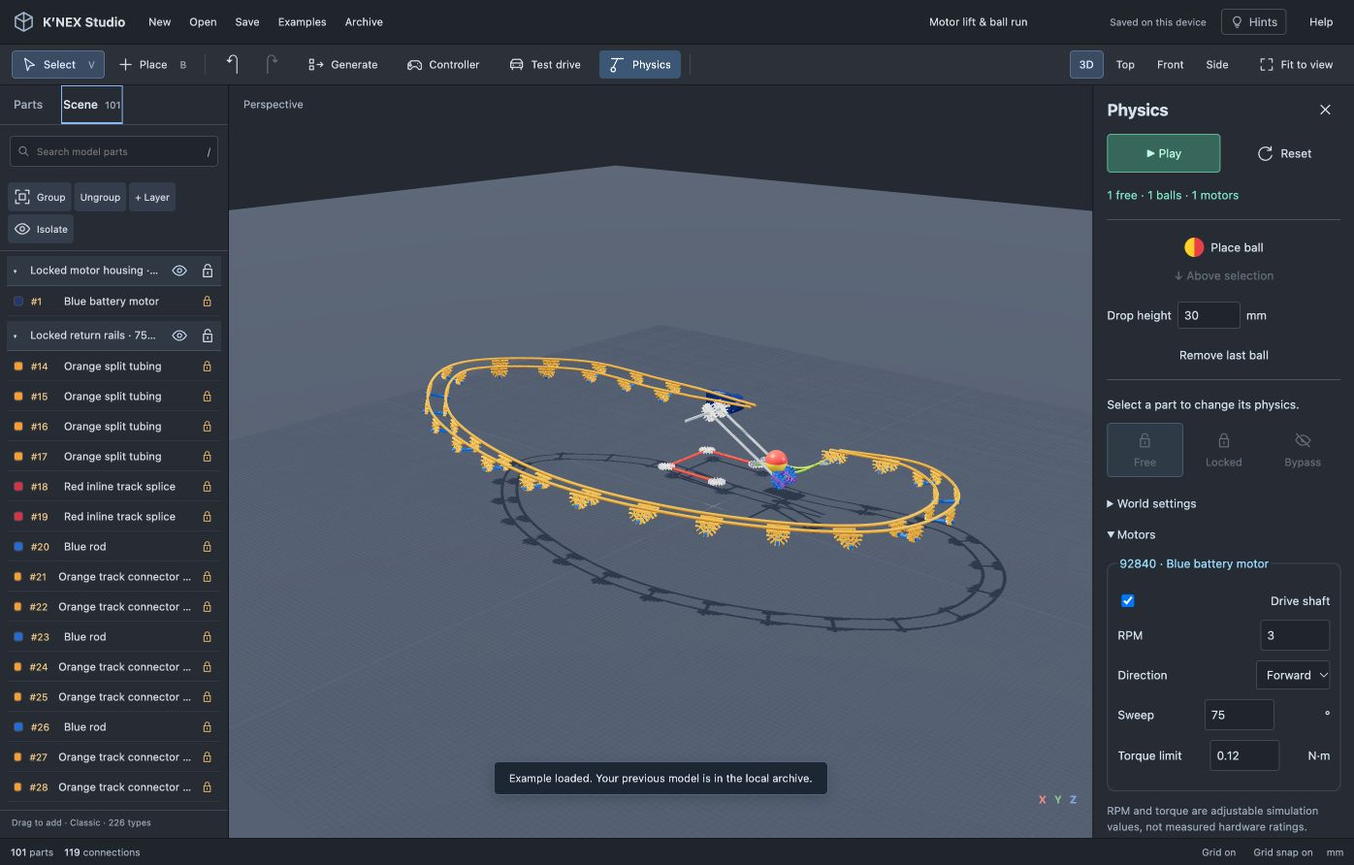
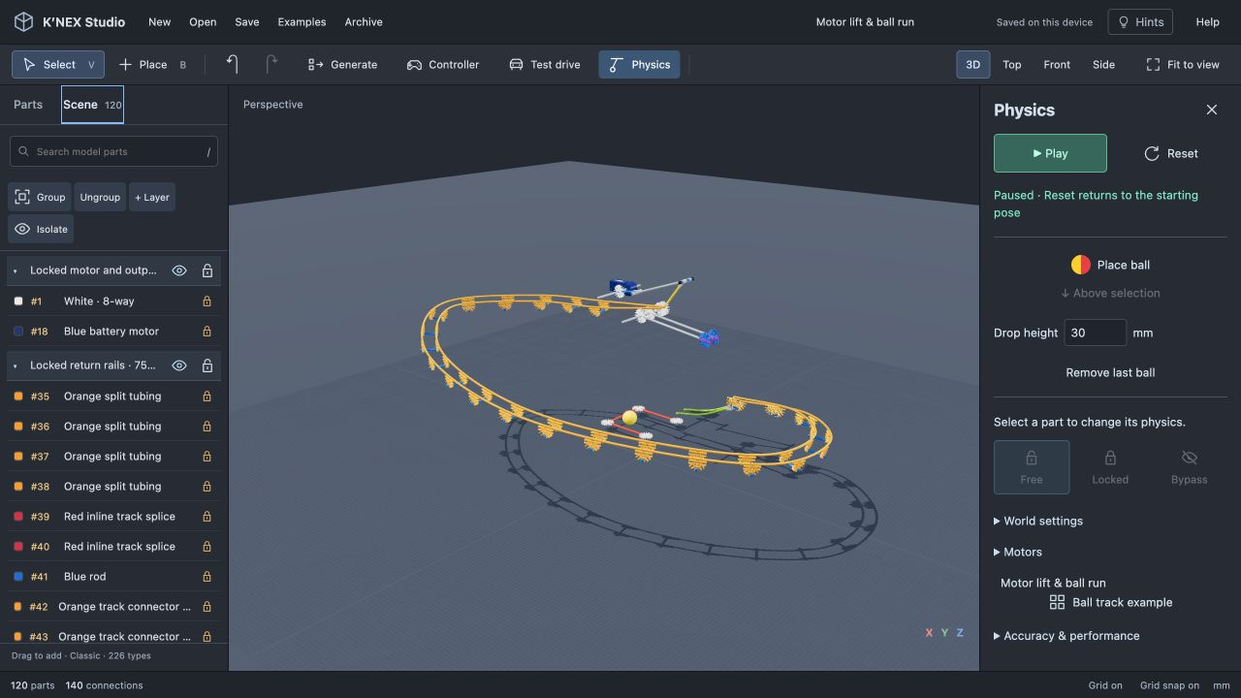
Replace reversing lift with a continuously driven physical crank linkage

diff --git a/dist/unified-physics-ui.js b/dist/unified-physics-ui.js
@@ -10,7 +10,7 @@ import {definition,V} from './engine.js';
 import {icon} from './icons.js';
 export function physicsWorkspace({scene,renderer,getCamera,getControls,partsGroup,getModel,getSelection,commit,redraw,stopOthers,onActive,loadExample}){
  const panel=document.createElement('section');panel.id='unified-panel';panel.hidden=true;document.querySelector('.inspector').append(panel);
- panel.innerHTML=`<header><h2>Physics</h2><button id="world-close" title="Back to building">${icon('close')}</button></header><div class="world-actions"><button id="world-play">▶ Play</button><button id="world-reset">${icon('rotate')} Reset</button></div><div id="world-status" role="status"></div><div class="world-ball-tools"><button id="world-ball" aria-pressed="false"><span class="ball-dot"></span> Place ball</button><button id="world-above" title="Place a ball directly above the selected part">↓ Above selection</button><label>Drop height <input id="world-height" type="number" min="0" max="1000" step="10" value="30"> mm</label><button id="world-remove-ball">Remove last ball</button></div><div id="world-selected">Select a part to change its physics.</div><div class="world-modes"><button data-world-mode="free" title="Affected by gravity and collisions">${icon('unlock')} Free</button><button data-world-mode="locked" title="Fixed in space; still collides and supports other parts">${icon('ground')} Locked</button><button data-world-mode="off" title="Hold this rigid assembly and exclude it from collisions and joints">${icon('eyeOff')} Bypass</button></div><details><summary>World settings</summary><label>Gravity <input id="world-gravity" type="range" min="0" max="20" step=".1"><output id="world-gravity-value"></output></label><label>Grip <input id="world-friction" type="range" min="0" max="1" step=".02"></label><label>Bounce <input id="world-bounce" type="range" min="0" max=".8" step=".02"></label><label><input id="world-rigid" type="checkbox"> Rigid assemblies <small>Freeze hinges; the whole assembly can still move.</small></label><label><input id="world-contacts" type="checkbox"> Build-to-build collisions <small>Off allows separate build assemblies to clip through each other. Balls and floor still collide.</small></label></details><details id="world-motor-settings"><summary>Motors</summary><div id="world-motors"></div><small>RPM and torque are adjustable simulation values, not measured hardware ratings. Sweep adds automatic reversing; 0° runs continuously.</small></details><button id="world-machine">Motor lift & ball run</button><button id="world-example">${icon('examples')} Ball track example</button><details><summary>Accuracy & performance</summary><p>One solver for gravity, hinges, rolling balls and tipping. Collision shapes omit small ribs, gear teeth and some cavities. Material values are estimates. Bypass applies to the connected rigid section. Enclosed 92840, 22722 and 92401 motors can drive their shafts here with an estimated torque limit. Gear teeth, belts and chains do not yet transmit physical drive in this solver. The separate motor previews and driving playground remain prescribed-motion tools.</p><p>Reset or leave Physics to restore the build. Ball start positions and settings are saved; simulated poses are temporary. Click a surface to place a ball vertically above it, or use Above selection. Drag free parts while running to pull and release.</p><output id="world-perf"></output></details>`;
+ panel.innerHTML=`<header><h2>Physics</h2><button id="world-close" title="Back to building">${icon('close')}</button></header><div class="world-actions"><button id="world-play">▶ Play</button><button id="world-reset">${icon('rotate')} Reset</button></div><div id="world-status" role="status"></div><div class="world-ball-tools"><button id="world-ball" aria-pressed="false"><span class="ball-dot"></span> Place ball</button><button id="world-above" title="Place a ball directly above the selected part">↓ Above selection</button><label>Drop height <input id="world-height" type="number" min="0" max="1000" step="10" value="30"> mm</label><button id="world-remove-ball">Remove last ball</button></div><div id="world-selected">Select a part to change its physics.</div><div class="world-modes"><button data-world-mode="free" title="Affected by gravity and collisions">${icon('unlock')} Free</button><button data-world-mode="locked" title="Fixed in space; still collides and supports other parts">${icon('ground')} Locked</button><button data-world-mode="off" title="Hold this rigid assembly and exclude it from collisions and joints">${icon('eyeOff')} Bypass</button></div><details><summary>World settings</summary><label>Gravity <input id="world-gravity" type="range" min="0" max="20" step=".1"><output id="world-gravity-value"></output></label><label>Grip <input id="world-friction" type="range" min="0" max="1" step=".02"></label><label>Bounce <input id="world-bounce" type="range" min="0" max=".8" step=".02"></label><label><input id="world-rigid" type="checkbox"> Rigid assemblies <small>Freeze hinges; the whole assembly can still move.</small></label><label><input id="world-contacts" type="checkbox"> Build-to-build collisions <small>Off allows separate build assemblies to clip through each other. Balls and floor still collide.</small></label></details><details id="world-motor-settings"><summary>Motors</summary><div id="world-motors"></div><small>RPM and torque are adjustable simulation values, not measured hardware ratings. Motors rotate continuously; use a crank linkage for back-and-forth motion.</small></details><button id="world-machine">Motor lift & ball run</button><button id="world-example">${icon('examples')} Ball track example</button><details><summary>Accuracy & performance</summary><p>One solver for gravity, hinges, rolling balls and tipping. Collision shapes omit small ribs, gear teeth and some cavities. Material values are estimates. Bypass applies to the connected rigid section. Enclosed 92840, 22722 and 92401 motors can drive their shafts here with an estimated torque limit. Gear teeth, belts and chains do not yet transmit physical drive in this solver. The separate motor previews and driving playground remain prescribed-motion tools.</p><p>Reset or leave Physics to restore the build. Ball start positions and settings are saved; simulated poses are temporary. Click a surface to place a ball vertically above it, or use Above selection. Drag free parts while running to pull and release.</p><output id="world-perf"></output></details>`;
  const $=id=>panel.querySelector(id),canvas=renderer.domElement,ray=new T.Raycaster(),pointer=new T.Vector2();let active=false,running=false,s=null,root=null,meshes=new Map(),ballMeshes=[],selected=null,placing=false,target=null,down=null,grabPlane=null,stepCost=0;
  const ballGeometry=[new T.SphereGeometry(23,24,12,0,Math.PI*2,0,Math.PI/2),new T.SphereGeometry(23,24,12,0,Math.PI*2,Math.PI/2,Math.PI/2)],ballMaterials=[new T.MeshStandardMaterial({color:'#e83f46',roughness:.35}),new T.MeshStandardMaterial({color:'#ffd029',roughness:.35})];
  const overlay=new T.Group();scene.add(overlay);overlay.visible=false;const ghost=new T.Mesh(new T.SphereGeometry(23,20,12),new T.MeshBasicMaterial({color:'#78ffca',wireframe:true,transparent:true,opacity:.7})),line=new T.Line(new T.BufferGeometry(),new T.LineDashedMaterial({color:'#78ffca',dashSize:6,gapSize:4}));overlay.add(ghost,line);ghost.visible=line.visible=false;const outline=new T.Box3Helper(new T.Box3(),'#ff4fea');overlay.add(outline);outline.visible=false;
@@ -25,8 +25,8 @@ export function physicsWorkspace({scene,renderer,getCamera,getControls,partsGrou
  function setConfig(fn){commit(m=>{const p=physicsSettings(m.physics);fn(p,m);m.physics=p;});rebuild();}
  function settings(){const p=physicsSettings(getModel().physics);for(const key of ['gravity','friction','bounce'])$('#world-'+key).value=p[key];$('#world-gravity-value').textContent=p.gravity.toFixed(1)+' m/s²';$('#world-contacts').checked=p.contacts;$('#world-rigid').checked=p.rigid;motorSettings();}
  function motorSettings(){const m=getModel(),p=physicsSettings(m.physics),root=$('#world-motors');root.replaceChildren();const motors=m.parts.filter(p=>['m-blue','m-green','m-two-speed'].includes(p.type));if(!motors.length){root.textContent='Add an enclosed motor and a drive shaft, or open the motor lift example.';return;}
- for(const motor of motors){const config=p.motors?.find(c=>c.id===motor.id),row=document.createElement('fieldset');row.className='world-motor';const legend=document.createElement('legend');legend.textContent=definition(motor).partNumber+' · '+definition(motor).name;row.append(legend);const controls=document.createElement('div');controls.innerHTML=`<label><input data-motor-enabled type="checkbox" ${config?'checked':''}> Drive shaft</label><label>RPM <input data-motor-rpm type="number" min=".1" max="240" step=".1" value="${config?.rpm??10}"></label><label>Direction <select data-motor-direction><option value="1">Forward</option><option value="-1">Reverse</option></select></label><label>Sweep <input data-motor-sweep type="number" min="0" max="360" step="5" value="${config?.sweep??0}"> °</label><label>Torque limit <input data-motor-torque type="number" min=".001" max="2" step=".01" value="${config?.torque??.12}"> N·m</label>`;row.append(controls);root.append(row);row.querySelector('[data-motor-direction]').value=config?.direction??1;
- controls.onchange=()=>{const enabled=row.querySelector('[data-motor-enabled]').checked,read=key=>Number(row.querySelector('[data-motor-'+key+']').value),next={id:motor.id,rpm:read('rpm'),direction:read('direction'),sweep:read('sweep'),torque:read('torque')};try{physicsSettings({...p,motors:enabled?[next]:[]});setConfig(c=>{c.motors=(c.motors||[]).filter(x=>x.id!==motor.id);if(enabled)c.motors.push(next);});motorSettings();}catch(e){message(e.message);}};
+ for(const motor of motors){const config=p.motors?.find(c=>c.id===motor.id),row=document.createElement('fieldset');row.className='world-motor';const legend=document.createElement('legend');legend.textContent=definition(motor).partNumber+' · '+definition(motor).name;row.append(legend);const controls=document.createElement('div');controls.innerHTML=`<label><input data-motor-enabled type="checkbox" ${config?'checked':''}> Drive shaft</label><label>RPM <input data-motor-rpm type="number" min=".1" max="240" step=".1" value="${config?.rpm??10}"></label><label>Direction <select data-motor-direction><option value="1">Forward</option><option value="-1">Reverse</option></select></label><label>Torque limit <input data-motor-torque type="number" min=".001" max="2" step=".01" value="${config?.torque??.12}"> N·m</label>`;row.append(controls);root.append(row);row.querySelector('[data-motor-direction]').value=config?.direction??1;
+ controls.onchange=()=>{const enabled=row.querySelector('[data-motor-enabled]').checked,read=key=>Number(row.querySelector('[data-motor-'+key+']').value),next={id:motor.id,rpm:read('rpm'),direction:read('direction'),sweep:0,torque:read('torque')};try{physicsSettings({...p,motors:enabled?[next]:[]});setConfig(c=>{c.motors=(c.motors||[]).filter(x=>x.id!==motor.id);if(enabled)c.motors.push(next);});motorSettings();}catch(e){message(e.message);}};
  }}
  function open(){if(active)return;stopOthers();active=true;selected=[...getSelection()][0]||null;panel.hidden=false;partsGroup.visible=false;overlay.visible=true;document.body.classList.add('physics-workspace');onActive(true);settings();rebuild();}
  function close(){if(!active)return;grabPlane=null;down=null;active=false;running=false;placing=false;getControls().enabled=true;destroy();panel.hidden=true;overlay.visible=false;partsGroup.visible=true;document.body.classList.remove('physics-workspace');onActive(false);redraw();}

diff --git a/dist/ball-machine.js b/dist/ball-machine.js
@@ -1,25 +1,40 @@
-import {part,emptyModel,add,solve,targets,V,Q,SOCKET} from './engine.js';
+import {part,emptyModel,add,solve,targets,V,Q,SOCKET,BY_ID,ports} from './engine.js';
 import {rigidComponent} from './motion.js';
 import {buildPath} from './path-builder.js';
 import {buildFrame} from './frame-builder.js';
 import {fitBetween} from './inbetween.js';
 import {makeLayer,makeGroup} from './editor-state.js';
 export function liftMechanism(){
- const m=emptyModel('Motorized tipping lift'),motor=part('m-blue',[0,220,-65]);motor.grounded=true;m.parts.push(motor);
+ const m=emptyModel('Motorized tipping lift'),bearing=part('c-white',[0,220,-65]);bearing.grounded=true;m.parts.push(bearing);
  const attach=(type,host,mode,options={},key)=>add(m,solve(m,type,targets(m,type,mode).find(t=>t.partId===host.id&&(!key||t.key===key)),mode,options));
- const shaft=attach('r-gray',motor,'through',{offset:-65}),tips=[];
+ const shaft=attach('r-gray',bearing,'through',{offset:-65}),tips=[];
  for(const z of [-18.75,18.75]){
   const key=attach('k-tan',shaft,'through',{offset:z-6.35,roll:0}),hub=attach('c-white',key,'keyed');
   const rail=attach('r-gray',hub,'end',{},'slot0');
   const tip=attach('c-blue',rail,'end',{portIndex:3},'end1');tips.push(tip);
  }
  const ends=tips.map((tip,i)=>attach('c-purple',tip,'interlock',{roll:i?90:0}));attach('r-green',ends[0],'end',{},'slot2');
- const rotor=rigidComponent(m,shaft.id),q=Q().setFromAxisAngle(V([0,0,1]),-Math.PI/6),origin=V([0,220,0]);for(const p of m.parts)if(rotor.has(p.id)){p.pos=V(p.pos).sub(origin).applyQuaternion(q).add(origin).toArray();p.quat=q.clone().multiply(Q(p.quat)).toArray();}
- makeLayer(m,[motor.id],'Locked motor housing');makeGroup(m,[...rotor],'Tipping lift');m.physics={gravity:9.81,rigid:false,balls:[{pos:[163,145,0]}],motors:[{id:motor.id,rpm:3,direction:1,sweep:75,torque:.12}],bounce:0,friction:.24,contacts:true};return m;
+ const rotor=rigidComponent(m,shaft.id),q=Q().setFromAxisAngle(V([0,0,1]),0),origin=V([0,220,0]);for(const p of m.parts)if(rotor.has(p.id)){p.pos=V(p.pos).sub(origin).applyQuaternion(q).add(origin).toArray();p.quat=q.clone().multiply(Q(p.quat)).toArray();}
+ // A stock-part four-bar: blue crank, gray connecting rod and yellow rocker.
+ // Only the crank is motor-driven. The output reverses through its linkage.
+ const z=-140,length=type=>BY_ID[type].length+2*SOCKET;
+ const rockerKey=attach('k-tan',shaft,'through',{offset:-86.35,roll:60}),rockerHub=attach('c-white',rockerKey,'keyed');
+ const rockerRod=attach('r-yellow',rockerHub,'end',{},'slot0'),rockerTip=attach('c-gray',rockerRod,'end',{},'end1');
+ const B=V(rockerTip.pos),O=V([-210,220,z]),r=length('r-blue'),l=length('r-gray'),delta=B.clone().sub(O);delta.z=0;const d=delta.length(),u=delta.clone().normalize(),along=(r*r-l*l+d*d)/(2*d),h=Math.sqrt(r*r-along*along);
+ const A=O.clone().addScaledVector(u,along).addScaledVector(V([-u.y,u.x,0]),-h),angle=Math.atan2(A.y-O.y,A.x-O.x)*180/Math.PI;
+ const motor=part('m-blue',[-210,220,z-45]);motor.grounded=true;m.parts.push(motor);
+ const drive=attach('r-gray',motor,'through',{offset:-45}),crankKey=attach('k-tan',drive,'through',{offset:-6.35,roll:angle}),crankHub=attach('c-white',crankKey,'keyed'),crankRod=attach('r-blue',crankHub,'end',{},'slot0'),crankTip=attach('c-gray',crankRod,'end',{},'end1');
+ // Parallel planes leave room for the actual connector and tan-key stack.
+ const ca=V(crankTip.pos),cb=V(rockerTip.pos);ca.z=-110;cb.z=-110;const dir=cb.clone().sub(ca).normalize(),orient=Q().setFromUnitVectors(V([1,0,0]),dir);
+ const linkA=part('c-gray',ca.toArray(),orient.toArray()),linkB=part('c-gray',cb.toArray(),Q().setFromAxisAngle(V([0,0,1]),Math.PI).multiply(orient).toArray());m.parts.push(linkA,linkB);attach('r-gray',linkA,'end',{},'slot0');
+ const pivot=(host,loose)=>{const pin=attach('r-blue',host,'through',{offset:(host.pos[2]-loose.pos[2])/2});attach('k-tan',host,'keyed');const axis=V([1,0,0]).applyQuaternion(Q(pin.quat)),offset=V(loose.pos).sub(V(pin.pos)).dot(axis);m.links.push({a:pin.id,ap:'shaft',b:loose.id,bp:'hole',mode:'through',offset});for(const end of ['end0','end1'])attach('k-cap',pin,'end',{},end);};
+ pivot(crankTip,linkA);pivot(rockerTip,linkB);
+ makeLayer(m,[motor.id,bearing.id],'Locked motor and output bearing');makeGroup(m,[...rigidComponent(m,shaft.id)],'Tipping lift and rocker');makeGroup(m,[...rigidComponent(m,drive.id)],'Continuous crank');makeGroup(m,[...rigidComponent(m,linkA.id)],'Connecting rod');
+ m.physics={gravity:9.81,rigid:false,balls:[{pos:[120,245,0]}],motors:[{id:motor.id,rpm:10,direction:-1,sweep:0,torque:.12}],bounce:0,friction:.24,contacts:true};return m;
 }
 
-export function ballMachine(){const m=liftMechanism();m.name='Motor lift & ball run';
-const path=buildPath({kind:'track',trackType:'track-orange',crossRod:'r-blue',entryRod:'r-white',bank:-15,bankEnds:true,spacing:120,points:[[100,250,0],[-150,248,0],[-420,244,0],[-620,238,170],[-420,230,400],[0,214,500],[350,195,400],[550,180,220],[550,166,0],[400,151,-150],[210,140,-150]]}).model;
+export function ballMachine(){const m=liftMechanism();for(const p of m.parts)p.pos[1]+=200;m.physics.balls[0].pos[1]+=200;m.name='Motor lift & ball run';
+const path=buildPath({kind:'track',trackType:'track-orange',crossRod:'r-blue',entryRod:'r-white',bank:-15,bankEnds:true,spacing:120,points:[[60,450,0],[-150,420,0],[-420,390,0],[-620,370,170],[-420,340,400],[0,300,500],[350,270,400],[550,240,220],[550,220,0],[400,200,-150],[210,185,-150]]}).model;
 // Leave the receiving tube tips overhanging their next cross-tie so the lift
  // can pass underneath. These rails are locked fixtures, not unsupported beams.
 const intakeIds=new Set(path.parts.filter(p=>['c-track-orange','r-blue'].includes(p.type)&&p.pos[0]>-100&&p.pos[0]<120&&p.pos[1]>200&&Math.abs(p.pos[2])<45).map(p=>p.id));path.parts=path.parts.filter(p=>!intakeIds.has(p.id));path.links=path.links.filter(l=>!intakeIds.has(l.a)&&!intakeIds.has(l.b));
@@ -28,10 +43,10 @@ for(const p of path.parts)p.grounded=true;m.parts.push(...path.parts);m.links.pu
  // 190 mm flexi rods across a small gap. There is no invented tubing/flexi joint.
  const flexIds=[];
  for(const z of [-19.4,19.4]){
-  const start=V([195,113,z-150]),end=V([17,67,z-150]),axis=end.clone().sub(start).normalize();
+  const start=V([195,158,z-150]),end=V([17,95,z-150]),axis=end.clone().sub(start).normalize();
   const a=part('c-gray',start.clone().addScaledVector(axis,-SOCKET).toArray(),Q().setFromUnitVectors(V([1,0,0]),axis).toArray());
-  const b=part('c-gray',end.clone().addScaledVector(axis,SOCKET).toArray(),Q().setFromUnitVectors(V([1,0,0]),axis.clone().negate()).toArray());
-  m.parts.push(a,b);const fitted=fitBetween(m,{a:a.id,ap:'slot0',b:b.id,bp:'slot0',type:'f-green190',bow:180});m.parts=fitted.model.parts;m.links=fitted.model.links;flexIds.push(a.id,b.id,fitted.part.id);
+  const b=part('c-gray',end.clone().addScaledVector(axis,SOCKET).toArray(),Q().setFromUnitVectors(V([1,0,0]),axis.clone().negate()).multiply(Q().setFromAxisAngle(V([1,0,0]),Math.PI/2)).toArray());
+  m.parts.push(a,b);const fitted=fitBetween(m,{a:a.id,ap:'slot0',b:b.id,bp:'slot0',type:'f-green190',bow:180});m.parts=fitted.model.parts.filter(p=>p.id!==b.id);m.links=fitted.model.links.filter(l=>l.a!==b.id&&l.b!==b.id);flexIds.push(a.id,fitted.part.id);
  }
  for(const p of m.parts)if(flexIds.includes(p.id))p.grounded=true;makeLayer(m,flexIds,'Locked flexi run-out');
  const catchFrame=buildFrame({kind:'grid',plane:'xz',counts:[1,1,1],rod:'r-red',braced:false}).model,opening=catchFrame.parts.find(p=>p.type==='r-red'&&p.pos[0]>149);

diff --git a/dist/unified-physics.js b/dist/unified-physics.js
@@ -9,7 +9,7 @@ export function createPhysics(model,settings=model.physics){
  const config=physicsSettings(settings),copy=parseModel(exportModel(model));
  // Freeze joints only for this preview. The saved mechanical connections stay intact.
  const graph=config.rigid?{...copy,links:copy.links.map(l=>['through','end-bearing','hinge','ball'].includes(l.mode)?{...l,mode:'end'}:l)}:copy;
- const partById=new Map(copy.parts.map(p=>[p.id,p]));const s=hingeSystem(graph,null,{unified:true});s.model=copy;s.config=config;s.balls=[];s.damping=.1;s.world.gravity.set(0,-config.gravity,0);s.world.allowSleep=true;s.world.solver.iterations=20;s.world.broadphase=new BoundsBroadphase(s.world);s.world.broadphase.useBoundingBoxes=true;
+ const partById=new Map(copy.parts.map(p=>[p.id,p]));const s=hingeSystem(graph,null,{unified:true});s.model=copy;s.config=config;s.balls=[];s.damping=.1;s.world.gravity.set(0,-config.gravity,0);s.world.allowSleep=true;s.world.solver.iterations=s.planarAxis&&s.joints.length>s.groups.filter(g=>!g.fixed).length?400:20;s.world.broadphase=new BoundsBroadphase(s.world);s.world.broadphase.useBoundingBoxes=true;
  const mat=new C.Material('physics');s.world.addContactMaterial(new C.ContactMaterial(mat,mat,{friction:config.friction,restitution:config.bounce,contactEquationStiffness:1e8,contactEquationRelaxation:4}));
  s.staticChunks=[];s.shapeCount=0;for(const g of s.groups){const b=g.body,ignored=g.parts.some(p=>p.physicsOff),inertia=b.inertia.clone();while(b.shapes.length)b.removeShape(b.shapes[0]);b.material=mat;b.collisionFilterGroup=2;b.collisionFilterMask=ignored?0:config.contacts?7:5;b.allowSleep=!s.joints.some(j=>j.a===g||j.b===g);b.sleepSpeedLimit=.015;b.sleepTimeLimit=1;
   if(!ignored)for(const local of g.local){const p=partById.get(local.id);for(const proxy of collisionShapes(p)){const position=V(proxy.pos).multiplyScalar(.001).applyQuaternion(local.quat).add(local.pos),rotation=local.quat.clone().multiply(Q(proxy.quat));const shape=proxy.shape();shape.body=b;b.shapes.push(shape);b.shapeOffsets.push(cv(position.toArray()));b.shapeOrientations.push(cq(rotation.toArray()));s.shapeCount++;if(s.shapeCount>12000)throw Error('Physics needs more than 12,000 collision shapes. Bypass a section or test a smaller build.');}}
@@ -29,9 +29,9 @@ export function createPhysics(model,settings=model.physics){
  function drop(pos){if(s.balls.length>=32)throw Error('Maximum 32 balls. Reset or remove a ball.');if(!Array.isArray(pos)||pos.length!==3||!pos.every(Number.isFinite)||pos[1]<23)throw Error('Place the ball above the floor.');if(s.balls.some(b=>b.position.distanceTo(cv(pos.map(n=>n/1000)))<.047))throw Error('Move the drop point away from the other ball.');
   const b=new C.Body({mass:.024,position:cv(pos.map(n=>n/1000)),shape:new C.Sphere(.023),material:mat,collisionFilterGroup:4,collisionFilterMask:7,linearDamping:.015,angularDamping:.035,allowSleep:true,sleepSpeedLimit:.015,sleepTimeLimit:1});const i=2/3*b.mass*.023**2;b.inertia.set(i,i,i);b.invInertia.set(1/i,1/i,1/i);b.updateInertiaWorld(true);s.world.addBody(b);s.balls.push(b);return b;
  }
- s.warnings=[];s.motors=[];for(const motor of config.motors||[]){const housing=partById.get(motor.id);if(!housing){s.warnings.push('A saved motor was removed.');continue;}if(!['m-blue','m-green','m-two-speed'].includes(housing.type))throw Error('Physics motor requires a supported enclosed motor.');const group=s.owner.get(motor.id),joint=s.joints.find(j=>!j.ball&&j.links.some(l=>l.mode==='through'&&(l.a===motor.id&&l.ap==='hole'||l.b===motor.id&&l.bp==='hole')));if(!joint||joint.a.fixed&&joint.b.fixed){s.warnings.push('Motor held: unlock its drive shaft and uncheck Rigid assemblies.');continue;}joint.constraint.enableMotor();joint.constraint.setMotorMaxForce(motor.torque);const axis=joint.a.body.vectorToWorldFrame(joint.constraint.axisA),driveAxis=cv(V([0,0,1]).applyQuaternion(Q(housing.quat)).toArray()),sign=(joint.a===group?1:-1)*Math.sign(axis.dot(driveAxis));s.motors.push({...motor,joint,sign,angle:0});}
+ s.warnings=[];s.motors=[];for(const motor of config.motors||[]){const housing=partById.get(motor.id);if(!housing){s.warnings.push('A saved motor was removed.');continue;}if(!['m-blue','m-green','m-two-speed'].includes(housing.type))throw Error('Physics motor requires a supported enclosed motor.');const group=s.owner.get(motor.id),joint=s.joints.find(j=>!j.ball&&j.links.some(l=>l.mode==='through'&&(l.a===motor.id&&l.ap==='hole'||l.b===motor.id&&l.bp==='hole')));if(!joint||joint.a.fixed&&joint.b.fixed){s.warnings.push('Motor held: unlock its drive shaft and uncheck Rigid assemblies.');continue;}joint.constraint.enableMotor();joint.constraint.setMotorMaxForce(motor.torque);const axis=joint.a.body.vectorToWorldFrame(joint.constraint.axisA),driveAxis=cv(V([0,0,1]).applyQuaternion(Q(housing.quat)).toArray()),sign=(joint.a===group?1:-1)*Math.sign(axis.dot(driveAxis));if(motor.sweep)s.warnings.push('Legacy automatic reversal ignored: this motor rotates continuously. Use a physical linkage for reciprocating motion.');s.motors.push({...motor,joint,sign,angle:0});}
  for(const ball of config.balls)drop(ball.pos);
- s.drop=drop;s.beforeStep=dt=>{for(const m of s.motors){const speed=m.rpm*Math.PI/30,period=m.sweep?m.sweep*Math.PI/180/speed:0,phase=period?s.elapsed%(period*2+3):0,target=period?(phase<1?0:phase<period+1?(phase-1)*speed:phase<period+2?m.sweep*Math.PI/180:phase<period*2+2?(period*2+2-phase)*speed:0)*m.direction:null;const axis=m.joint.a.body.vectorToWorldFrame(m.joint.constraint.axisA);m.angle+=m.sign*m.joint.b.body.angularVelocity.vsub(m.joint.a.body.angularVelocity).dot(axis)*dt;const velocity=target===null?speed*m.direction:Math.max(-speed,Math.min(speed,(target-m.angle)*8));m.joint.constraint.setMotorSpeed(-velocity*m.sign);}for(const b of [...s.groups.filter(g=>!g.fixed).map(g=>g.body),...s.balls]){const speed=b.velocity.length();if(speed>5)b.velocity.scale(5/speed,b.velocity);const spin=b.angularVelocity.length();if(spin>100)b.angularVelocity.scale(100/spin,b.angularVelocity);}};
+ s.drop=drop;s.beforeStep=dt=>{for(const m of s.motors){const speed=m.rpm*Math.PI/30,axis=m.joint.a.body.vectorToWorldFrame(m.joint.constraint.axisA);m.angle+=m.sign*m.joint.b.body.angularVelocity.vsub(m.joint.a.body.angularVelocity).dot(axis)*dt;m.joint.constraint.setMotorSpeed(-speed*m.direction*m.sign);}for(const b of [...s.groups.filter(g=>!g.fixed).map(g=>g.body),...s.balls]){const speed=b.velocity.length();if(speed>5)b.velocity.scale(5/speed,b.velocity);const spin=b.angularVelocity.length();if(spin>100)b.angularVelocity.scale(100/spin,b.angularVelocity);}};
  s.step=dt=>{stepHingeSystem(copy,s,Math.min(dt,1/30));if(s.groups.some(g=>!Number.isFinite(g.body.position.x)||g.body.position.length()>20))throw Error('Simulation stopped outside the work area. Reset and check the supports.');};
  return s;
 }

diff --git a/dist/examples.js b/dist/examples.js
@@ -56,7 +56,7 @@ export function rigidTower(){const m=buildFrame({rod:'r-rigid-tan',counts:[1,4,1
 export function octagonalTower(){const m=buildRadial({kind:'tube',counts:[2,4,1],rod:'r-yellow',braced:true}).model;m.name='Octagonal observation tower';for(const p of m.parts)p.pos[1]+=12;return m;}
 export function paneledTunnel(){const m=buildFrame({kind:'frame',counts:[3,2,2],rod:'r-blue',braced:false,panel:'panel-91072',openInterior:true,openEnds:true}).model;m.name='Paneled tunnel';for(const p of m.parts)p.pos[1]+=15;return m;}
 export const EXAMPLES=[
- {id:'ball-machine',title:'Motor lift & ball run',level:'Advanced',skill:'Powered lift · tubing bends · flexi drop · catcher',hint:'Open Physics and press Play. The reversing motor lifts the ball into the orange track. It descends around the bend, drops onto two 190 mm flexis and stops in the catcher. Reset reloads the ball; this is a single-pass run, not a recirculating elevator.',factory:ballMachine,kind:'Original locked test fixture with real Classic parts; estimated torque and bend geometry. Build collisions are enabled. The supports are held in space, not a freestanding construction',source:'https://www.knexusergroup.org.uk/en/knex-hint-R5.html'},
+ {id:'ball-machine',title:'Motor lift & ball run',level:'Advanced',skill:'Powered lift · tubing bends · flexi drop · catcher',hint:'Open Physics and press Play. A continuously rotating motor drives a crank and connecting rod to lift the ball into the orange track. It descends around the bend, drops onto two 190 mm flexis and stops in the catcher. Reset reloads the ball; this is a single-pass run, not a recirculating elevator.',factory:ballMachine,kind:'Original locked test fixture with real Classic parts; estimated torque and bend geometry. Build collisions are enabled. The supports are held in space, not a freestanding construction',source:'https://www.knexusergroup.org.uk/en/knex-hint-R5.html'},
  {id:'ball-track',title:'Ball track',level:'Simple',skill:'Rolling ball · locked track · shared physics',hint:'Open Physics and press Play. The track is locked; the ball rolls freely. Place ball snaps above the rail pair. Unlock the track to test its balance.',factory:ballTrackExample,kind:'Original fixed test fixture using real Classic parts; no freestanding support claim',source:'https://www.knexusergroup.org.uk/en/knex-hint-R5.html'},
  {id:'hollow-hall',title:'Hollow hall frame',level:'Advanced',skill:'Open interior · stock rods · shared faces',hint:'Generate → Grid & frame → Hall opens the matching preset. Increase width, height or depth to grow the shell. Open interior keeps the outer lattice and leaves room inside.',factory:()=>{const m=buildFrame({counts:[8,4,3],rod:'r-blue',braced:true,openInterior:true}).model;m.name='Hollow hall frame';for(const p of m.parts)p.pos[1]+=12;return m;},kind:'Original procedural shell with XY and XZ bracing; open YZ diagonal planes, estimated geometry, no load-rating claim',source:'https://www.knexusergroup.org.uk/en/knex-hint-A4.html'},
  {id:'axle-stops',title:'Molded axle stops',level:'Simple',skill:'Slide · spin · end stops',hint:'Select the moving arm. Drag the gold slide arrow toward either end: its bearing stops at the molded cross. Spin stays free. The fixture is locked in space.',factory:stoppedAxle,kind:'Original test fixture using Classic 90958; stop and bore clearances are photo estimates, not manufacturing tolerances',source:'https://shop.knexusergroup.org.uk/products/90958'},

diff --git a/dist/hinge-system.js b/dist/hinge-system.js
@@ -29,7 +29,8 @@ export function hingeSystem(model,selected,options={}){
  if(!ids.size&&!options.unified)throw Error('Every articulated assembly is locked. Unlock the moving parts first.');
  const joints=[];for(const e of activeEdges){if(e.a.fixed&&e.b.fixed)continue;const old=joints.find(j=>((j.a===e.a&&j.b===e.b)||(j.a===e.b&&j.b===e.a))&&!!j.ball===!!e.ball&&(e.ball?e.origin.distanceTo(j.origin)<.00002:Math.abs(j.axis.dot(e.axis))>.9999&&e.origin.clone().sub(j.origin).cross(j.axis).length()<.00035));if(old){old.links.push(e.l);continue;}const a=e.a.body,b=e.b.body,pivot=cv(e.origin.toArray()),axis=cv(e.axis.toArray()),constraint=e.ball?new C.PointToPointConstraint(a,a.pointToLocalFrame(pivot),b,b.pointToLocalFrame(pivot),1e5):new C.HingeConstraint(a,b,{pivotA:a.pointToLocalFrame(pivot),pivotB:b.pointToLocalFrame(pivot),axisA:a.vectorToLocalFrame(axis),axisB:b.vectorToLocalFrame(axis),maxForce:1e5,collideConnected:false});for(const eq of constraint.equations)eq.setSpookParams(1e8,4,STEP);world.addConstraint(constraint);const tangent=e.axis.clone().cross(Math.abs(e.axis.y)<.9?V([0,1,0]):V([1,0,0])).normalize();joints.push({...e,constraint,links:[e.l],tangentA:a.vectorToLocalFrame(cv(tangent.toArray())),tangentB:b.vectorToLocalFrame(cv(tangent.toArray()))});}
  for(const j of joints)j.rolls=j.links.map(l=>l.roll||0);
- const planarAxis=!options.unified&&activeEdges.length&&!activeEdges.some(e=>e.ball)&&activeEdges.every(e=>Math.abs(e.axis.dot(activeEdges[0].axis))>.999999)?activeEdges[0].axis.clone().normalize():null;
+ const anchored=new Set(grounded);let grew=true;while(grew){grew=false;for(const e of activeEdges)if(anchored.has(e.a)!==anchored.has(e.b)){anchored.add(e.a);anchored.add(e.b);grew=true;}}
+ const planarAxis=(!options.unified||[...connected].every(g=>g.fixed||anchored.has(g)))&&activeEdges.length&&!activeEdges.some(e=>e.ball)&&activeEdges.every(e=>Math.abs(e.axis.dot(activeEdges[0].axis))>.999999)?activeEdges[0].axis.clone().normalize():null;
  // Parallel revolute joints restrict the entire connected mechanism to planar
  // motion. Preserve that exact invariant instead of accumulating solver tilt.
  if(planarAxis)for(const g of connected){const local=planarAxis.clone().applyQuaternion(Q(g.body.quaternion.toArray()).invert()),i=g.body.inertia;g.planar={quat:Q(g.body.quaternion.toArray()),height:tv(g.body.position).dot(planarAxis),inverseInertia:g.fixed?0:1/(local.x*local.x*i.x+local.y*local.y*i.y+local.z*local.z*i.z)};}

diff --git a/dist/physics-shapes.js b/dist/physics-shapes.js
@@ -7,7 +7,7 @@ const cache=new Map();
 // are deliberately omitted; these shapes are not manufacturing CAD.
 export function collisionShapes(p){const d=definition(p);if(!p.path&&!p.belt&&cache.has(p.type))return cache.get(p.type);const shapes=[];
  const box=(size,pos=[0,0,0],quat=[0,0,0,1])=>shapes.push({shape:()=>new C.Box(new C.Vec3(...size.map(n=>Math.max(.0003,n/2000)))),pos,quat});
- const segment=(a,b,r)=>{const av=V(a),bv=V(b),delta=bv.clone().sub(av),length=delta.length();if(length<.01)return;const q=Q().setFromUnitVectors(V([0,1,0]),delta.normalize());shapes.push({shape:()=>new C.Cylinder(r/1000,r/1000,length/1000,8),pos:av.add(bv).multiplyScalar(.5).toArray(),quat:q.toArray()});};
+ const segment=(a,b,r)=>{const av=V(a),bv=V(b),delta=bv.clone().sub(av),length=delta.length();if(length<.01)return;const q=Q().setFromUnitVectors(V([0,1,0]),delta.normalize());shapes.push({shape:()=>new C.Cylinder(r/1000,r/1000,length/1000,24),pos:av.add(bv).multiplyScalar(.5).toArray(),quat:q.toArray()});};
  const sphere=(point,r)=>shapes.push({shape:()=>new C.Sphere(r/1000),pos:point,quat:[0,0,0,1]});
  if(d.tubing||d.flexi){const points=p.path||[[-(d.length||190)/2,0,0],[(d.length||190)/2,0,0]],simple=simplifyPath(points,.2),r=d.tubing?2.8:2.8;for(let i=1;i<simple.length;i++)segment(simple[i-1],simple[i],r);for(const v of simple)sphere(v,r);
  }else if(d.group==='rods'){segment([-d.length/2,0,0],[d.length/2,0,0],2.9);

diff --git a/README.md b/README.md
@@ -471,11 +471,11 @@ The [9091213 packaged hinge](https://shop.knexusergroup.org.uk/products/9091213)
 
 ## Motorized ball run and fitting between connectors
 
-**Examples → Motor lift & ball run → Physics → Play** runs a 101-part, single-pass fixture. A reversing **92840** motor lifts the ball into a narrowed tubing intake. Banked orange rails descend around two bends, the ball drops onto two **91108 190 mm flexis**, then reaches the rod catcher. **Reset** reloads the ball. Build-to-build collisions are enabled. The track and motor housing are locked in space; this is an original test fixture, not a freestanding model or a recirculating elevator.
+**Examples → Motor lift & ball run → Physics → Play** runs a 120-part, single-pass fixture. A continuously rotating **92840** motor drives a blue-rod crank, gray connecting rod and yellow-rod rocker through four physical pivots. That linkage raises and lowers the lift into a narrowed tubing intake. Banked orange rails descend around two bends, the ball drops onto two **91108 190 mm flexis**, then reaches the rod catcher. **Reset** reloads the ball. Build-to-build collisions are enabled. The track and motor housing are locked in space; this is an original test fixture, not a freestanding model or a recirculating elevator.
 
 ![Motor lift, banked tubing, flexi run-out and catcher in the shared physics workspace](docs/screenshots/motor-ball-run.png)
 
-**Physics → Motors** enables a drive shaft and adjusts RPM, direction, reversing sweep and estimated torque limit. Supported enclosed motors: 92840, 22722 and 92401. Motor constraints, ball contacts, gravity and hinges run in the same solver. Gear teeth, belt tension and flexible chains do not yet transmit physical torque here. The separate motor preview still offers ideal gear and belt playback. RPM and torque settings are simulation parameters, not verified hardware ratings.
+**Physics → Motors** enables a drive shaft and adjusts RPM, direction and estimated torque limit. Supported enclosed motors: 92840, 22722 and 92401. Motor constraints, ball contacts, gravity and hinges run in the same solver. Automatic reversing has been removed: older saved sweep values load with a warning and the motor rotates continuously. Gear teeth, belt tension and flexible chains do not yet transmit physical torque here. The separate motor preview still offers ideal gear and belt playback. RPM and torque settings are simulation parameters, not verified hardware ratings.
 
 Select two connectors, then **Generate → Fit between**. Choose the open sockets, stock rod or flexi, and bend direction in a 3D preview. Both connectors remain fixed; both ends connect when accepted. Rigid rods require the correct distance and facing sockets. Flexis retain their documented approximate stock length. Impossible spans are rejected; no rods are stretched. Bend limits and interference checks remain unverified.
 
@@ -486,3 +486,5 @@ Select two connectors, then **Generate → Fit between**. Choose the open socket
 Part evidence: [92840 motor and mounting](https://www.knexusergroup.org.uk/en/knex-hint-M4.html), [92602 tubing](https://shop.knexusergroup.org.uk/products/92602), [90910 track connector](https://shop.knexusergroup.org.uk/products/90910), [91108 flexi](https://shop.knexusergroup.org.uk/products/91108). These are identified parts with reconstructed profiles and approximate dimensions, not exact manufacturing CAD.
 
 Physics now refreshes the rotated floor's collision bounds and uses consistently sorted bounds for long assemblies, avoiding missed contacts. Large locked compounds are partitioned for collision lookup without changing their rendered parts or saved connections. Contact shapes remain simplified; small transient contact penetration and different outcomes after editing a track are still possible.
+
+The lift is an original stock-part crank-rocker adaptation, not a copied official model. Mechanism references: [four-bar linkage kinematics, University of Illinois](https://dynref.engr.illinois.edu/aml.html) and [K’NEX crank-operated arm lifts, builder guide](https://shadowman39.github.io/official-lift-guide/lifts/arm-lifts/). Only the motor shaft is powered; the three other joints are passive. The flexi fixture has open exit tips to clear the ball, with its curved shape held by the simulation lock. Real flex under load is not modeled. Smoother 24-sided collision cylinders reduce artificial ledges at rail joins. Anchored planar closed linkages use additional solver iterations to maintain their pivots.
